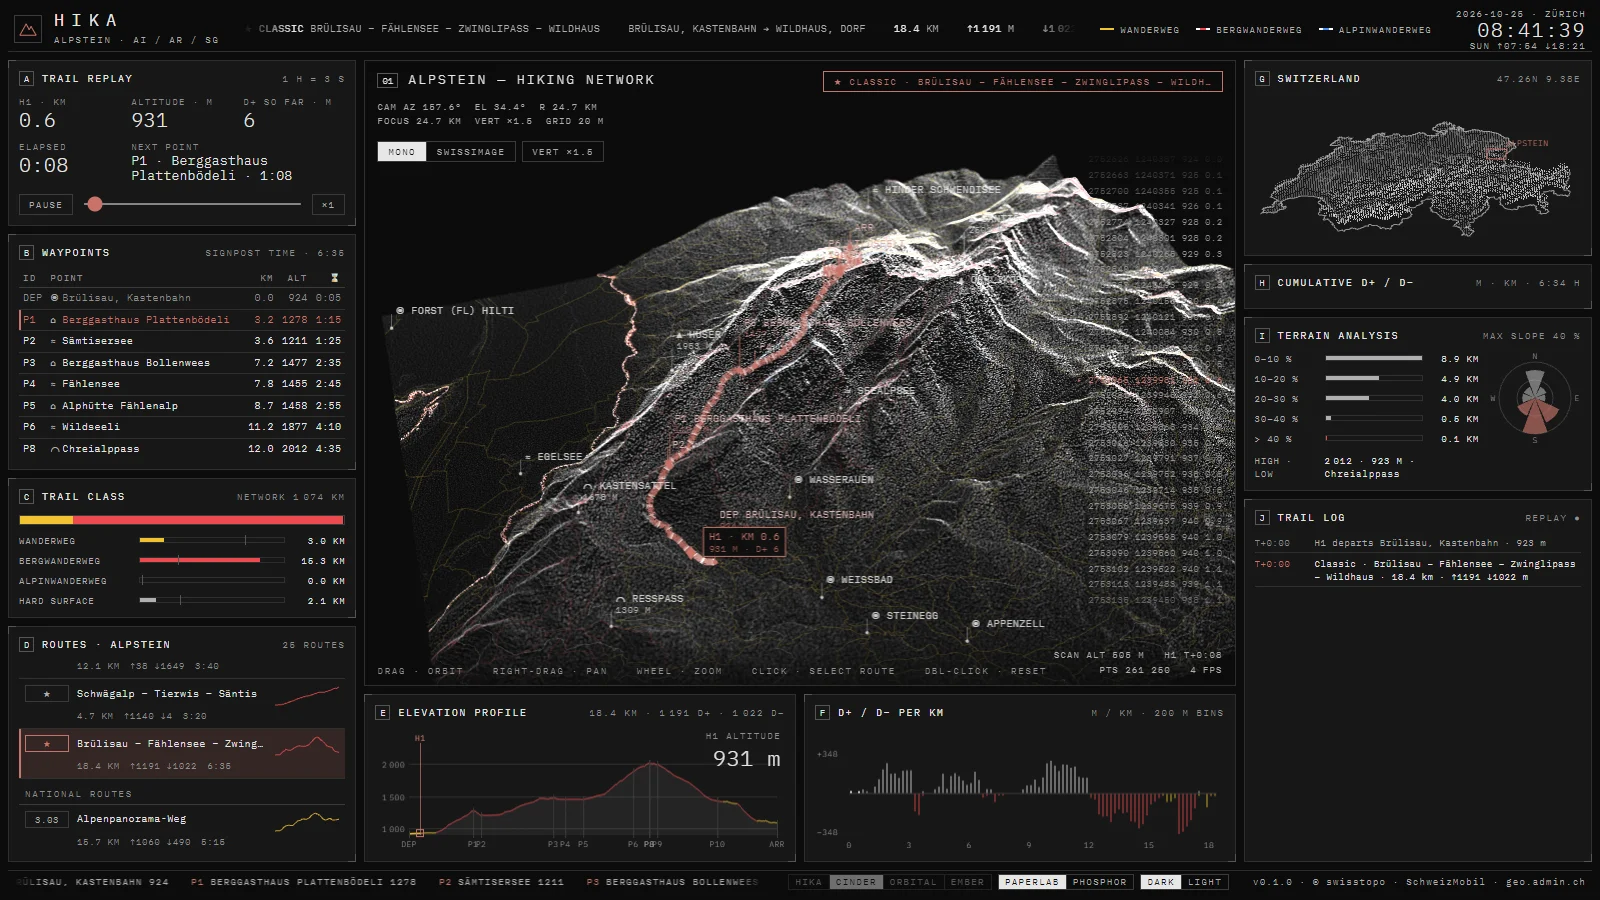
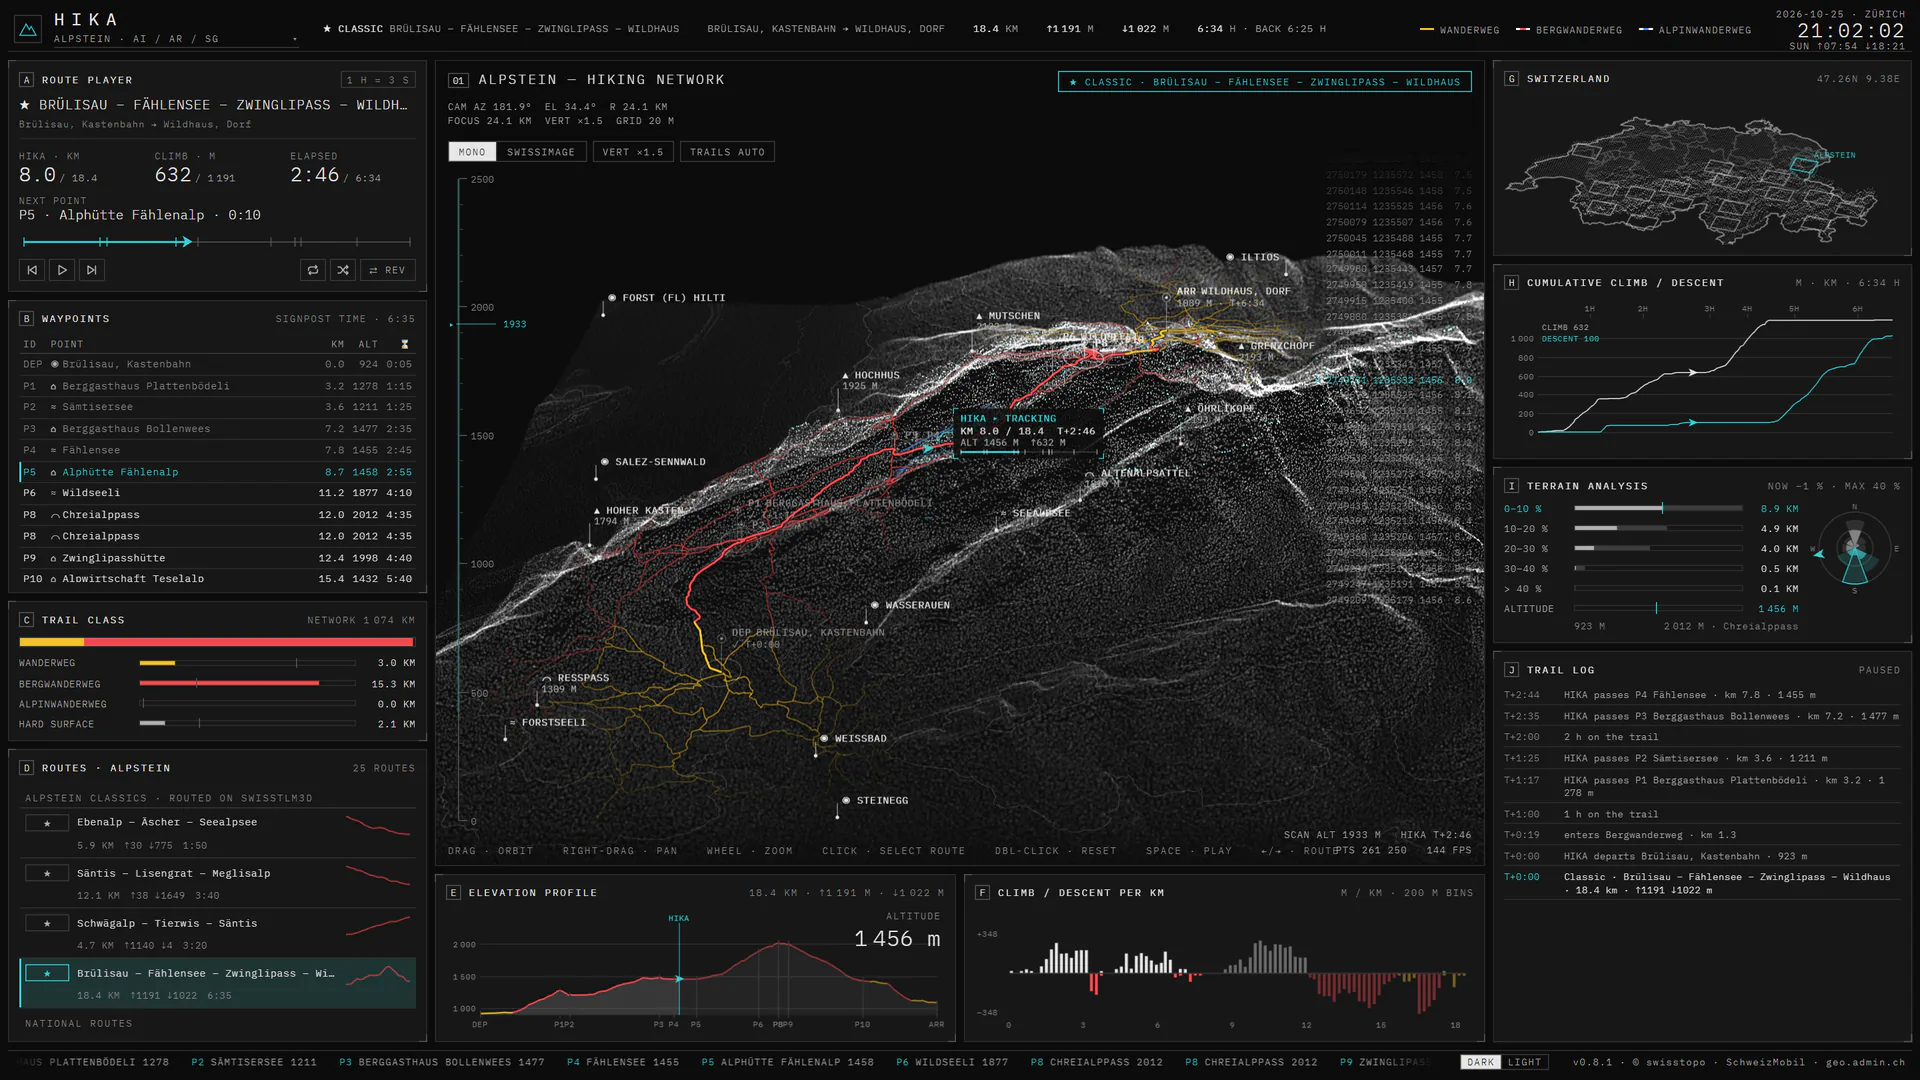
Tighten the README and refresh its screenshots
Condense the landing page to features, controls, regions, quick start,
credits and licence; pipeline and release details now live in AGENTS.md,
docs/data-coverage.md and the release skill. Replace the v0.1.0
screenshots with 1920x1080 captures of v0.8.1, and add a hika-preview
launch config for capturing from a production build.

diff --git a/README.md b/README.md
@@ -11,89 +11,60 @@
 
 ### [▶ Open the live console](https://sosinone.github.io/hika/)
 
-[![HIKA showing the Brülisau – Fählensee – Zwinglipass – Wildhaus hike in the Alpstein](docs/hero.webp)](https://sosinone.github.io/hika/#route=c-bruelisau-wildhaus)
+[![HIKA previewing the Brülisau – Fählensee – Zwinglipass – Wildhaus hike in the Alpstein](docs/hero.webp)](https://sosinone.github.io/hika/#route=c-bruelisau-wildhaus)
 
 </div>
 
-HIKA covers **17 hiking regions** across Switzerland, from the Matterhorn and the Bernina to the
-Jura and Lake Lucerne (see [Regions](#regions)). Each one is its signposted trail network rendered
-as a 3D point cloud, every SchweizMobil route that crosses it, and a few classic hikes routed on the
-trail graph. Pick a route and HIKA previews it with a hiker marker, signpost times and live
-instruments.
+HIKA renders 17 Swiss hiking regions as holographic 3D terrain, each with its signposted trail
+network and 330 routes: 279 SchweizMobil routes and 51 curated classics. Pick a route and a hiker
+walks it at official Swiss signpost pace while the instruments follow along.
 
 ## Features
 
-- **Holographic terrain.** swissALTI3D elevation as a point cloud with depth-of-field and contour
-  lines, an optional SWISSIMAGE overlay and adjustable vertical exaggeration.
-- **The whole trail network.** Every Wanderweg, Bergwanderweg and Alpinwanderweg from swissTLM3D,
-  drawn in the official signpost colours, with the named summits, passes, huts, stops and lakes
-  from swissNAMES3D. By default only the trails branching off the selected route show,
-  fading out over 5 km along each branch; the TRAILS button switches the whole network on
-  or off.
-- **17 regions, 330 routes.** 279 SchweizMobil "Wanderland" routes, from the Via Alpina to the Eiger
-  Trail and the 5-Seenweg, and 51 curated classics, such as Säntis – Lisengrat – Meglisalp and
-  Gornergrat – Riffelsee. Switch region with the picker under the HIKA logo, or click a region's box
-  on the Switzerland locator.
-- **Route player.** A hiker walks the route at signpost pace, past each waypoint with its distance,
-  altitude and expected time. The region's routes play like a playlist: previous / next, repeat,
-  shuffle, and the next route starts when the hiker arrives (Space and ← / → work too).
-- **Instruments.** Elevation profile, climb and descent per km, cumulative climb and descent, slope histogram,
-  aspect rose, trail-class breakdown, a Switzerland locator and today's sunrise and sunset.
-- **Real Swiss hiking times,** from a pace table digitised from the official Schweizer Wanderwege
-  chart (see [Hiking time](#hiking-time)).
-- **Shareable.** Every route has its own link, e.g.
-  [`?region=jungfrau#route=sm-353.00`](https://sosinone.github.io/hika/?region=jungfrau#route=sm-353.00)
-  for the Eiger Trail. Links without `?region=` open the Alpstein.
-- **No backend.** The app reads a static data bundle and never calls geo.admin.ch at runtime.
-
-### Controls
-
-| Input | Action |
-|---|---|
-| Drag | Orbit |
-| Right-drag | Pan |
-| Wheel | Zoom |
-| Click | Select route |
-| Double-click | Reset camera |
-
-## Regions
-
-Each region is a 24 × 19 km box (Zermatt is 27 km wide, to take in Saas-Fee). They were chosen from
-the data, not by hand: `task regions:scout` scores every box in Switzerland by its mountain trails,
-huts, summits, lakes and lifts. Each region is then anchored on a well-known hiking area, and the box
-goes wherever around it scores best. Routes are SchweizMobil routes + curated classics that
-SchweizMobil doesn't have.
-
-| Region | Cantons | Highlights | Routes | Trails |
-|---|---|---|---|---|
-| [Aletsch](https://sosinone.github.io/hika/?region=aletsch) | VS | Riederalp · Bettmeralp · Eggishorn | 11 + 3 | 938 km |
-| [Alpes vaudoises](https://sosinone.github.io/hika/?region=alpes-vaudoises) | VD, BE | Les Diablerets · Leysin · Château-d'Oex | 17 + 3 | 996 km |
-| [Alpstein](https://sosinone.github.io/hika/?region=alpstein) | AI, AR, SG | Säntis · Seealpsee · Hoher Kasten | 21 + 4 | 1 074 km |
-| [Davos](https://sosinone.github.io/hika/?region=davos) | GR | Weissfluh · Klosters · Arosa | 24 + 3 | 1 076 km |
-| [Engadin](https://sosinone.github.io/hika/?region=engadin) | GR | St. Moritz · Pontresina · Bernina | 22 + 3 | 718 km |
-| [Engelberg](https://sosinone.github.io/hika/?region=engelberg) | OW, NW, UR | Titlis · Surenenpass · Altdorf | 23 + 3 | 859 km |
-| [Flims](https://sosinone.github.io/hika/?region=flims) | GR, GL | Laax · Caumasee · Vorab | 16 + 3 | 1 122 km |
-| [Glarus](https://sosinone.github.io/hika/?region=glarus) | GL, SG | Vrenelisgärtli · Klöntal · Walensee | 21 + 2 | 828 km |
-| [Jungfrau](https://sosinone.github.io/hika/?region=jungfrau) | BE, VS | Eiger · Grindelwald · Lauterbrunnen | 15 + 4 | 780 km |
-| [Jura](https://sosinone.github.io/hika/?region=jura) | NE, VD | Creux du Van · Chasseron · Val-de-Travers | 10 + 2 | 564 km |
-| [Kandersteg](https://sosinone.github.io/hika/?region=kandersteg) | BE, VS | Oeschinensee · Adelboden · Leukerbad | 12 + 3 | 756 km |
-| [Lake Lucerne](https://sosinone.github.io/hika/?region=lucerne) | LU, NW, OW, SZ | Rigi · Pilatus · Luzern | 28 + 3 | 1 109 km |
-| [Leventina](https://sosinone.github.io/hika/?region=leventina) | TI | Campo Tencia · Strada Alta · Ritom | 11 + 3 | 806 km |
-| [National Park](https://sosinone.github.io/hika/?region=nationalpark) | GR | Zernez · Il Fuorn · Scuol | 19 + 2 | 679 km |
-| [Verbier](https://sosinone.github.io/hika/?region=verbier) | VS | Val de Bagnes · Mont Fort · Nendaz | 15 + 3 | 1 158 km |
-| [Verzasca](https://sosinone.github.io/hika/?region=verzasca) | TI | Valle Verzasca · Maggia · Locarno | 8 + 3 | 879 km |
-| [Zermatt](https://sosinone.github.io/hika/?region=zermatt) | VS | Matterhorn · Gornergrat · Saas-Fee | 6 + 4 | 596 km |
-
-swissALTI3D stops at the border, so Zermatt and Aletsch, which reach into Italy, show that side
-empty.
-
-## Dark and light
+- **Terrain** from swissALTI3D as a point cloud with contours, an optional SWISSIMAGE overlay and
+  adjustable vertical exaggeration.
+- **Trails** from swissTLM3D in the official signpost colours, with summits, huts, passes and lakes
+  from swissNAMES3D.
+- **Route player:** scrub, change speed, walk the hike in reverse, or let the region's routes play
+  as a playlist with repeat and shuffle.
+- **Instruments:** elevation profile, climb and descent, slope and aspect, trail classes, a
+  Switzerland locator, and sunrise and sunset.
+- **Real hiking times** from a pace table digitised from the official Schweizer Wanderwege chart.
+- **Shareable links** for every route, e.g. the
+  [Eiger Trail](https://sosinone.github.io/hika/?region=jungfrau#route=sm-353.00).
+- **Dark and light schemes,** and no backend: the app reads a static data bundle.
 
 [![HIKA in the light scheme](docs/light.webp)](https://sosinone.github.io/hika/?scheme=light#route=sm-951.00)
 
-HIKA has one look, paperlab: flat greys with a glacier-cyan accent, in a dark scheme (the default) and
-a light one. The footer switches between them, a URL can set one with `?scheme=light`, and a choice
-made in the footer is remembered in the browser.
+| Input | Action |
+|---|---|
+| Drag / right-drag / wheel | Orbit / pan / zoom |
+| Click / double-click | Select route / reset camera |
+| Space | Play / pause |
+| ← / → | Previous / next route |
+
+## Regions
+
+[Aletsch](https://sosinone.github.io/hika/?region=aletsch) ·
+[Alpes vaudoises](https://sosinone.github.io/hika/?region=alpes-vaudoises) ·
+[Alpstein](https://sosinone.github.io/hika/?region=alpstein) ·
+[Davos](https://sosinone.github.io/hika/?region=davos) ·
+[Engadin](https://sosinone.github.io/hika/?region=engadin) ·
+[Engelberg](https://sosinone.github.io/hika/?region=engelberg) ·
+[Flims](https://sosinone.github.io/hika/?region=flims) ·
+[Glarus](https://sosinone.github.io/hika/?region=glarus) ·
+[Jungfrau](https://sosinone.github.io/hika/?region=jungfrau) ·
+[Jura](https://sosinone.github.io/hika/?region=jura) ·
+[Kandersteg](https://sosinone.github.io/hika/?region=kandersteg) ·
+[Lake Lucerne](https://sosinone.github.io/hika/?region=lucerne) ·
+[Leventina](https://sosinone.github.io/hika/?region=leventina) ·
+[National Park](https://sosinone.github.io/hika/?region=nationalpark) ·
+[Verbier](https://sosinone.github.io/hika/?region=verbier) ·
+[Verzasca](https://sosinone.github.io/hika/?region=verzasca) ·
+[Zermatt](https://sosinone.github.io/hika/?region=zermatt)
+
+Each region is a 24 × 19 km box scored from the national data (mountain trails, huts, summits,
+lakes and lifts) and anchored on a well-known hiking area.
 
 ## Quick start
 
@@ -105,107 +76,32 @@ cd hika
 task dev
 ```
 
-`task` lists every command. Each one wraps an npm script in `package.json`, so `npm run <script>`
-works too.
+The region bundles are committed under `public/data/`, so the app runs without rebuilding data.
+`task` lists every command.
 
-The generated region bundles are committed under `public/data/<id>/`, so the app runs without
-rebuilding data.
-
-## How it works
-
-A build-time pipeline in `scripts/` downloads swisstopo and geo.admin.ch data and writes a compact
-bundle to `public/data/<id>/`. The browser app in `src/` only reads that bundle and renders it with
-WebGL 2.
-
-### Rebuild the data
+To rebuild a region from swisstopo data (about 300 MB of downloads on the first run, cached in
+`.cache/`):
 
 ```bash
 task region REGION=alpstein
 ```
 
-`task region:build` and `task region:check` run the two steps on their own, and `task regions:check`
-validates every region.
+`task check` runs the type-checker, the tests and the region checks, which is what CI runs before
+it builds. Releases are deployed to GitHub Pages from a version tag with
+`task release BUMP=patch`.
 
-`regions/<id>.json` defines a region: LV95 bbox, grid cell, default route, curated hikes (waypoint
-names resolved through swissNAMES3D) and routes to exclude. The pipeline caches downloads in `.cache/`
-(about 300 MB on first run, mostly the national trail and names datasets) and takes about 30 s
-afterwards. Each build also refreshes `public/data/regions.json`, the list of regions the app offers,
-so adding a region is a new `regions/<id>.json` plus `task region REGION=<id>`.
-
-Rebuilds are reproducible: a rebuild from unchanged swisstopo data leaves every file byte-identical,
-so the bundles in git only grow when the source data changes. The terrain and trail files are
-delta-encoded (`src/data/codec.ts`), which roughly halves what git and the web server store and send.
-
-To find a box for a new region, run `task regions:scout`. With no arguments it ranks the best boxes
-that overlap no existing region. `-- --at E,N` places one near an LV95 point, and `-- --places <id>`
-lists a region's huts, lifts, stops and lakes for writing curated hikes.
-
-| Step | Source | Output |
-|---|---|---|
-| Terrain | swissALTI3D 2 m COGs via STAC, box-averaged from the 4 m overview | `terrain.bin` (decimetres, row 0 = north, delta-encoded) |
-| Colour | SWISSIMAGE WMTS, 10 m/px | `ortho.jpg` |
-| Trails | swissTLM3D Wanderwege GeoPackage (class, surface) | `trails.bin` |
-| Places | swissNAMES3D (summits, passes, inns, stops, lakes …) | `region.json` |
-| Routes | SchweizMobil "Wanderland" layer (identify + find), chained and clipped | `region.json` |
-| Classics | Dijkstra on the trail graph, weighted by Swiss hiking time | `region.json` |
-| Heights | geo.admin.ch profile service (DTM2) every 10 m | `region.json` |
-| Locator | profile-service rows over CH + swissBOUNDARIES3D | `switzerland.u16`, `region.json` |
-
-[`docs/data-coverage.md`](docs/data-coverage.md) maps every piece of that data to where the app
-shows it, and lists what is downloaded but dropped or not used yet.
-
-### Hiking time
-
-Times follow the Schweizer Wanderwege signpost method (4.2 km/h on the flat, slope-dependent pace).
-Its polynomial coefficients are not published, so `src/geo/hikingTime.ts` carries a pace table
-digitised from the official isochrone chart (ASTRA *Signalisation Wanderwege*, 2008, p. 66).
-Signpost-style times are rounded to 5 minutes.
-
-## Development
-
-```bash
-task check
-```
-
-This runs the type-checker and the unit tests (`task test` for the tests alone).
-`.github/workflows/ci.yml` runs the type-checker, the tests, the region check and the build on
-pull requests and on every branch push.
-
-[AGENTS.md](AGENTS.md) describes the architecture in depth: the bundle format, the rendering
-pipeline, theming and the pipeline details that were learned the hard way.
-
-### Deploy
-
-Releases are deployed, not every commit. `.github/workflows/pages.yml` builds and publishes to
-GitHub Pages when a `v*` tag is pushed (it can also be run by hand from the Actions tab). The
-tag must match the `version` in `package.json`. From `main`, run:
-
-```bash
-task release BUMP=patch
-```
-
-This runs the checks, then `npm version` (commit + `vX.Y.Z` tag) and `git push --follow-tags`.
-
-Enable Pages → "GitHub Actions" in the repository settings, and allow `v*` tags under
-Settings → Environments → `github-pages` → Deployment branches and tags.
+[AGENTS.md](AGENTS.md) covers the architecture, and [docs/data-coverage.md](docs/data-coverage.md)
+lists every data source and where the app shows it.
 
 ## Credits
 
-HIKA would not exist without two sci-fi console projects:
-
-- **[beastydesign · Diagonale des Fous](https://beastydesign.github.io/scifi/)**: the original race
-  console for La Réunion. Its point-cloud terrain, instrument panels and overall visual language are
-  what this project set out to recreate for Switzerland. Its code is all rights reserved, so HIKA is
-  an independent re-implementation and copies none of its code or assets.
-- **[LosEcher · hud-console-framework](https://github.com/LosEcher/hud-console-framework)** (MIT):
-  an open re-creation of that style with design tokens, a single accent colour and corner-bracket
-  panels, which showed how to structure the look as reusable tokens. HIKA's paperlab greys
-  are ported from it.
+The look is inspired by [beastydesign · Diagonale des Fous](https://beastydesign.github.io/scifi/),
+a sci-fi race console for La Réunion. Its code is all rights reserved, so HIKA is an independent
+re-implementation and copies none of its code or assets. The paperlab greys are ported from
+[LosEcher · hud-console-framework](https://github.com/LosEcher/hud-console-framework) (MIT).
 
 ## Licence
 
-The code is released under the [MIT licence](LICENSE).
-
-The bundled data in `public/data/` and the screenshots in `docs/` are not covered by it. Geodata
-© swisstopo, free to use with attribution (opendata.swiss terms "BY"). Routes © SchweizMobil / ASTRA.
-See [NOTICE.md](NOTICE.md).
+The code is released under the [MIT licence](LICENSE). The data in `public/data/` and the
+screenshots in `docs/` are not covered by it: geodata © swisstopo (opendata.swiss "BY"), routes
+© SchweizMobil / ASTRA. See [NOTICE.md](NOTICE.md).
